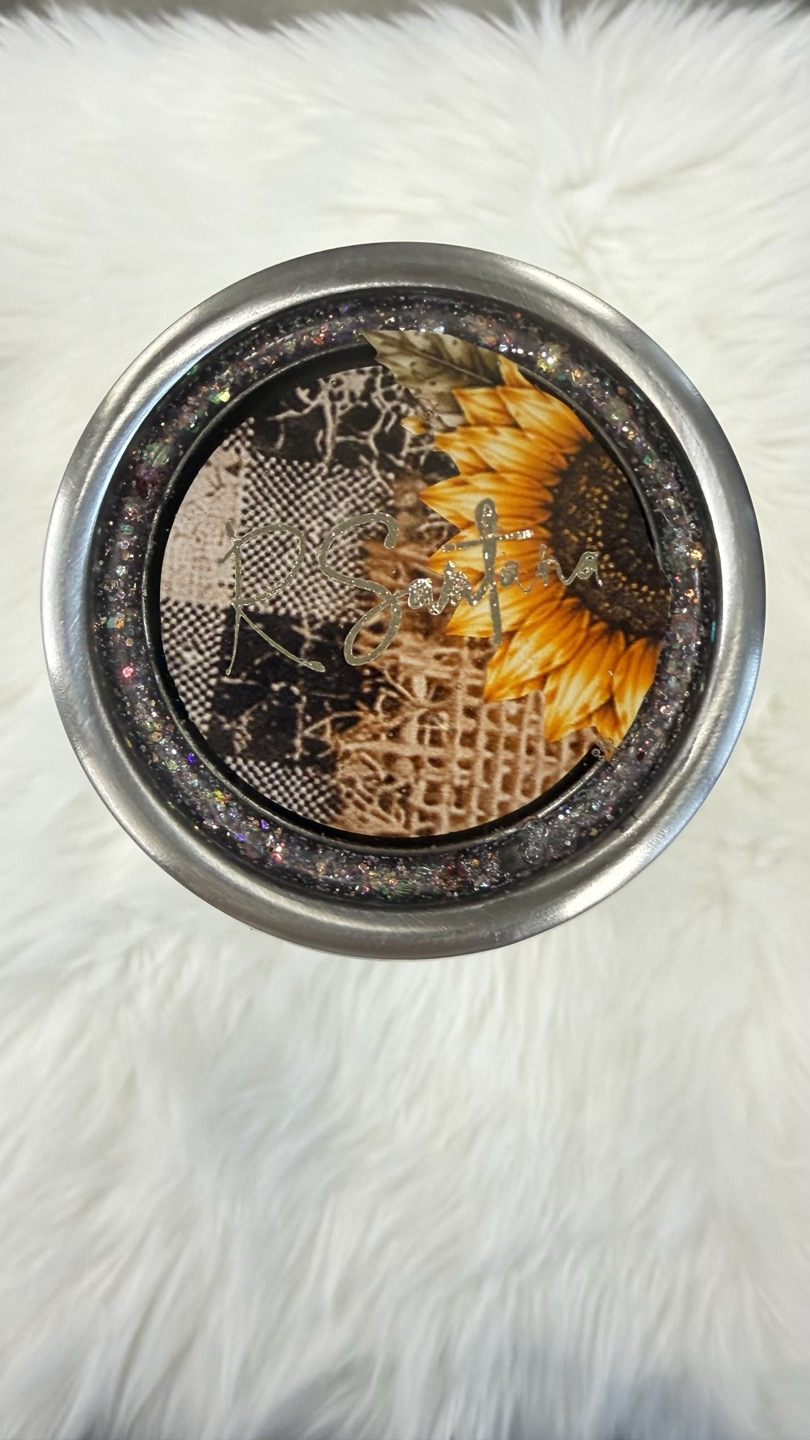
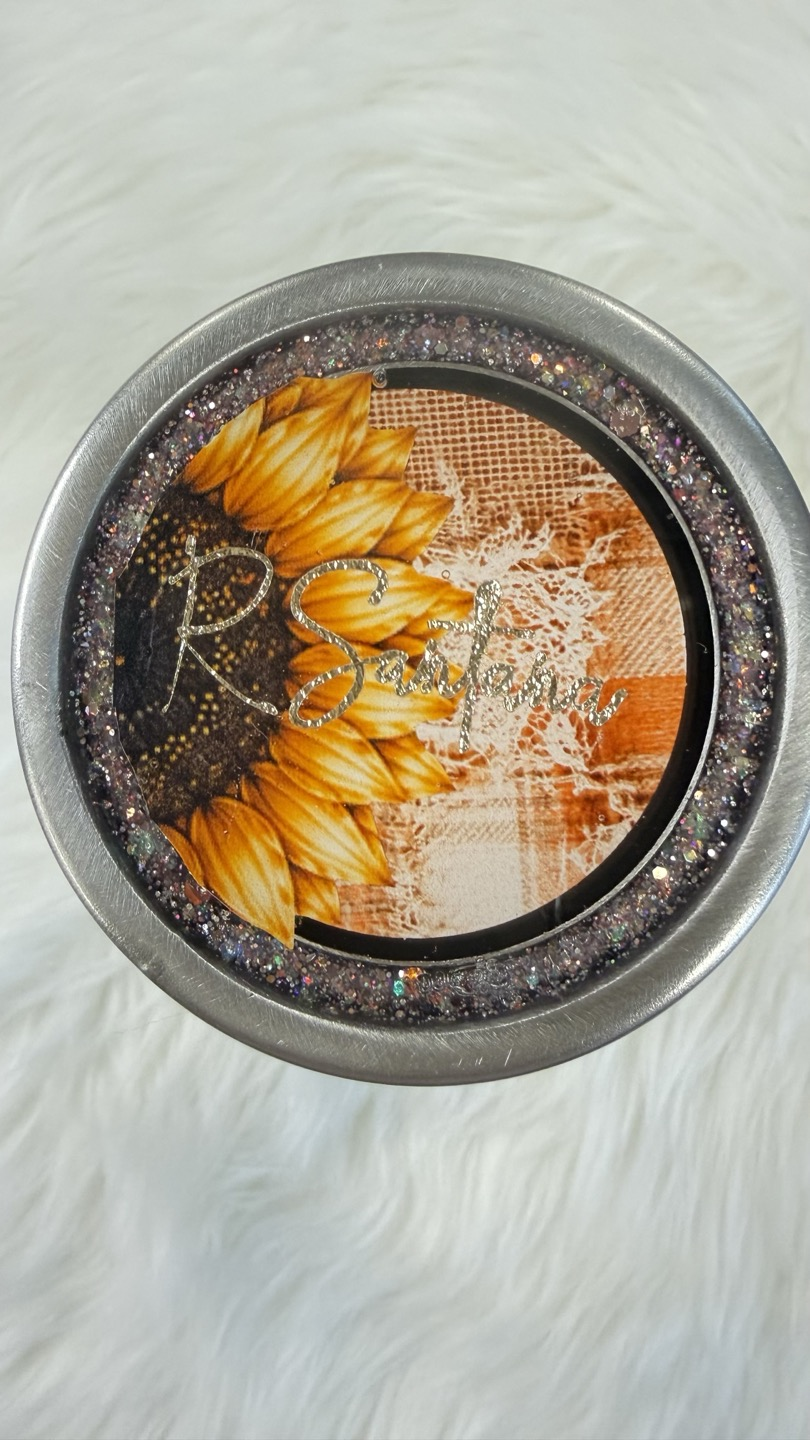
Fix Fall Magic tumbler photos, add Pumpkin Kisses tumbler (16 oz, $40)

diff --git a/categories/tumblers/pumpkin-kisses-and-harvest-wishes-tumbler-16-oz.html b/categories/tumblers/pumpkin-kisses-and-harvest-wishes-tumbler-16-oz.html
@@ -1,0 +1,151 @@
+<!DOCTYPE html>
+<html lang="en">
+<head>
+    <meta charset="UTF-8">
+    <meta name="viewport" content="width=device-width, initial-scale=1.0">
+    <title>Pumpkin Kisses and Harvest Wishes Tumbler (16 oz) | Studio Santana</title>
+    <meta name="description" content="Pumpkin Kisses and Harvest Wishes Tumbler (16 oz) — handmade by Studio Santana.">
+    <link rel="canonical" href="https://studio-santana.com/categories/tumblers/pumpkin-kisses-and-harvest-wishes-tumbler-16-oz.html">
+    <meta property="og:title" content="Pumpkin Kisses and Harvest Wishes Tumbler (16 oz) | Studio Santana">
+    <meta property="og:description" content="Pumpkin Kisses and Harvest Wishes Tumbler (16 oz) — handmade by Studio Santana.">
+    <meta property="og:type" content="website">
+    <meta property="og:url" content="https://studio-santana.com/categories/tumblers/pumpkin-kisses-and-harvest-wishes-tumbler-16-oz.html">
+    <meta property="og:image" content="https://studio-santana.com/assets/Santana_logo.png">
+    <meta property="og:site_name" content="Studio Santana">
+    <meta name="twitter:card" content="summary_large_image">
+    <link rel="icon" href="../../assets/Santana_logo_transparent.png">
+    <link rel="preconnect" href="https://fonts.googleapis.com">
+    <link rel="preconnect" href="https://fonts.gstatic.com" crossorigin>
+    <link href="https://fonts.googleapis.com/css2?family=Dancing+Script:wght@600;700&family=Playfair+Display:wght@600;700&family=Poppins:wght@400;500;600;700&display=swap" rel="stylesheet">
+    <link rel="stylesheet" href="../../assets/css/style.css?v=d37a5ac9">
+</head>
+<body>
+    <header class="site-header">
+        <div class="header-top">
+            <a class="brand" href="../../index.html">
+                <img class="brand-logo" src="../../assets/Santana_logo_transparent.png" alt="Studio Santana logo">
+                <span class="brand-text">
+                    <span class="brand-name">Studio Santana</span>
+                    <span class="brand-tagline">Handmade with Heart</span>
+                </span>
+            </a>
+
+            <form class="search-bar" role="search">
+                <input type="search" placeholder="Search tumblers, quilts, keychains...">
+                <button type="submit" aria-label="Search">
+                    <svg viewBox="0 0 24 24" width="18" height="18" fill="none" stroke="currentColor" stroke-width="2" stroke-linecap="round" stroke-linejoin="round"><circle cx="11" cy="11" r="7"></circle><line x1="21" y1="21" x2="16.65" y2="16.65"></line></svg>
+                </button>
+            </form>
+
+            <div class="header-icons">
+                <a class="icon-btn favorites-link" href="/favorites.html" aria-label="Favorites">
+                    <svg viewBox="0 0 24 24" width="18" height="18" fill="none" stroke="currentColor" stroke-width="2" stroke-linecap="round" stroke-linejoin="round"><path d="M20.8 4.6a5.5 5.5 0 0 0-7.8 0L12 5.6l-1-1a5.5 5.5 0 0 0-7.8 7.8l1 1L12 21l7.8-7.8 1-1a5.5 5.5 0 0 0 0-7.6z"></path></svg>
+                    <span class="badge">0</span>
+                </a>
+                <button class="nav-toggle" aria-label="Menu" aria-expanded="false">
+                    <svg viewBox="0 0 24 24" width="22" height="22" fill="none" stroke="currentColor" stroke-width="2" stroke-linecap="round"><line x1="3" y1="6" x2="21" y2="6"></line><line x1="3" y1="12" x2="21" y2="12"></line><line x1="3" y1="18" x2="21" y2="18"></line></svg>
+                </button>
+            </div>
+        </div>
+
+        <nav class="main-nav">
+            <ul>
+                <li class="dropdown">
+                    <button class="dropdown-toggle" aria-haspopup="true">Shop by Category ▾</button>
+                    <div class="dropdown-menu">
+                        <a href="../../categories/tumblers.html">Tumblers</a>
+                        <a href="../../categories/quilts.html">Quilts</a>
+                        <a href="../../categories/quilted-home.html">Quilted Home</a>
+                        <a href="../../categories/dog-bandannas.html">Dog Bandannas</a>
+                        <a href="../../categories/keychains.html">Keychains</a>
+                        <a href="../../categories/pens.html">Pens</a>
+                        <a href="../../categories/bookish-collection.html">Bookish Collection</a>
+                        <a href="../../categories/studio-sale.html">Studio Sale</a>
+                    </div>
+                </li>
+                <li class="dropdown">
+                    <button class="dropdown-toggle" aria-haspopup="true">Shop by Season ▾</button>
+                    <div class="dropdown-menu">
+                        <a href="../../seasons/spring.html">Spring</a>
+                        <a href="../../seasons/summer.html">Summer</a>
+                        <a href="../../seasons/fall.html">Fall</a>
+                        <a href="../../seasons/winter.html">Winter</a>
+                    </div>
+                </li>
+                <li><a href="../../studio-archive.html">Studio Archive</a></li>
+                <li><a href="mailto:studiosantana@yahoo.com">Contact Us</a></li>
+            </ul>
+        </nav>
+    </header>
+
+    <main>
+        <p class="breadcrumb"><a href="../../index.html">Home</a> / <a href="../../categories/index.html">Categories</a> / <a href="../../categories/tumblers.html">Tumblers</a> / Pumpkin Kisses and Harvest Wishes Tumbler (16 oz)</p>
+
+        <section class="product-detail">
+            <div class="product-detail-image product-gallery">
+                <img class="gallery-main" src="../../assets/images/tumblers/tumbler-pumpkin-kisses-harvest-wishes-16oz-1.jpeg" alt="Pumpkin Kisses and Harvest Wishes Tumbler (16 oz)">
+                <div class="gallery-thumbs">
+                    <button class="gallery-thumb active" type="button" aria-label="View photo 1" data-image="../../assets/images/tumblers/tumbler-pumpkin-kisses-harvest-wishes-16oz-1.jpeg">
+                        <img src="../../assets/images/tumblers/tumbler-pumpkin-kisses-harvest-wishes-16oz-1.jpeg" alt="Pumpkin Kisses and Harvest Wishes Tumbler (16 oz) &mdash; photo 1">
+                    </button>
+                    <button class="gallery-thumb" type="button" aria-label="View photo 2" data-image="../../assets/images/tumblers/tumbler-pumpkin-kisses-harvest-wishes-16oz-2.jpeg">
+                        <img src="../../assets/images/tumblers/tumbler-pumpkin-kisses-harvest-wishes-16oz-2.jpeg" alt="Pumpkin Kisses and Harvest Wishes Tumbler (16 oz) &mdash; photo 2">
+                    </button>
+                    <button class="gallery-thumb" type="button" aria-label="View photo 3" data-image="../../assets/images/tumblers/tumbler-pumpkin-kisses-harvest-wishes-16oz-3.jpeg">
+                        <img src="../../assets/images/tumblers/tumbler-pumpkin-kisses-harvest-wishes-16oz-3.jpeg" alt="Pumpkin Kisses and Harvest Wishes Tumbler (16 oz) &mdash; photo 3">
+                    </button>
+                </div>
+            </div>
+            <div class="product-detail-info">
+                <span class="script">Tumblers</span>
+                <h1>Pumpkin Kisses and Harvest Wishes Tumbler (16 oz)</h1>
+                <p class="product-price">$40.00</p>
+                <p class="product-description">A little cup full of autumn! Features cozy pumpkins, sunflowers, rustic textures, and sweet fall sayings with just the right touch of sparkle. Keeps drinks hot or cold and fits perfectly in standard cup holders.</p>
+                <div class="product-detail-actions">
+                    <a class="btn" href="https://checkout.square.site/merchant/RQ7EZZGXMS1K3/checkout/M3CJCB23ZLJ2BRM4ANDLOZWJ?src=sheet" target="_blank" rel="noopener noreferrer">Buy Now</a>
+                    <button class="favorite-toggle detail-favorite" type="button" aria-label="Save to favorites"
+                        data-id="/categories/tumblers/pumpkin-kisses-and-harvest-wishes-tumbler-16-oz.html" data-name="Pumpkin Kisses and Harvest Wishes Tumbler (16 oz)" data-image="/assets/images/tumblers/tumbler-pumpkin-kisses-harvest-wishes-16oz-1.jpeg" data-category="Tumblers">
+                        <svg viewBox="0 0 24 24" width="16" height="16" fill="none" stroke="currentColor" stroke-width="2" stroke-linecap="round" stroke-linejoin="round"><path d="M20.8 4.6a5.5 5.5 0 0 0-7.8 0L12 5.6l-1-1a5.5 5.5 0 0 0-7.8 7.8l1 1L12 21l7.8-7.8 1-1a5.5 5.5 0 0 0 0-7.6z"></path></svg>
+                        <span>Save</span>
+                    </button>
+                </div>
+                <a class="back-link" href="../../categories/tumblers.html">&larr; Back to Tumblers</a>
+            </div>
+        </section>
+    </main>
+
+    <footer class="site-footer" id="contact">
+        <span class="script">Studio Santana</span>
+        <p id="about">Handmade with heart, created to inspire &mdash; a one-woman craft studio, made with love for
+            life's little moments.</p>
+        <div class="footer-links">
+            <a href="../../categories/index.html">Shop</a>
+            <a href="../../seasons/index.html">Seasons</a>
+            <a href="../../studio-archive.html">Studio Archive</a>
+            <a href="../../our-story.html">Our Story</a>
+            <a href="../../shipping-returns.html">Shipping &amp; Returns</a>
+            <a href="../../privacy-policy.html">Privacy Policy</a>
+            <a href="mailto:studiosantana@yahoo.com">Contact Us</a>
+        </div>
+
+        <div class="social-links">
+            <a class="icon-btn" href="https://www.facebook.com/people/Studio-Santana/100083233152006/" target="_blank" rel="noopener noreferrer" aria-label="Studio Santana on Facebook">
+                <svg viewBox="0 0 24 24" width="18" height="18" fill="currentColor"><path d="M22 12c0-5.523-4.477-10-10-10S2 6.477 2 12c0 4.991 3.657 9.128 8.438 9.878v-6.987h-2.54V12h2.54V9.797c0-2.506 1.492-3.89 3.777-3.89 1.094 0 2.238.195 2.238.195v2.46h-1.26c-1.243 0-1.63.771-1.63 1.562V12h2.773l-.443 2.891h-2.33v6.987C18.343 21.128 22 16.991 22 12z"></path></svg>
+            </a>
+            <a class="icon-btn" href="https://www.instagram.com/studiosantana16/" target="_blank" rel="noopener noreferrer" aria-label="Studio Santana on Instagram">
+                <svg viewBox="0 0 24 24" width="18" height="18" fill="none" stroke="currentColor" stroke-width="2" stroke-linecap="round" stroke-linejoin="round"><rect x="2" y="2" width="20" height="20" rx="5" ry="5"></rect><path d="M16 11.37A4 4 0 1 1 12.63 8 4 4 0 0 1 16 11.37z"></path><line x1="17.5" y1="6.5" x2="17.51" y2="6.5"></line></svg>
+            </a>
+        </div>
+
+        <p class="copyright">&copy; 2026 Studio Santana. All rights reserved.</p>
+        <p class="credit">
+            <a href="https://mustardseeddigitalstudio.com/" target="_blank" rel="noopener noreferrer">
+                <img src="../../assets/mustard_seed_icon.png" alt="" class="credit-icon">
+                Built by Mustard Seed Digital Studio
+            </a>
+        </p>
+    </footer>
+
+    <script src="../../assets/js/main.js?v=91940958"></script>
+</body>
+</html>

diff --git a/categories/tumblers.html b/categories/tumblers.html
@@ -193,6 +193,21 @@
                     <p class="product-price">$65.00</p>
                 </a>
             </article>
+            <article class="product-card">
+                <div class="product-card-media">
+                    <a href="/categories/tumblers/pumpkin-kisses-and-harvest-wishes-tumbler-16-oz.html">
+                        <img src="../assets/images/tumblers/tumbler-pumpkin-kisses-harvest-wishes-16oz-1.jpeg" alt="Pumpkin Kisses and Harvest Wishes Tumbler (16 oz)">
+                    </a>
+                    <button class="favorite-toggle" type="button" aria-label="Save to favorites"
+                        data-id="/categories/tumblers/pumpkin-kisses-and-harvest-wishes-tumbler-16-oz.html" data-name="Pumpkin Kisses and Harvest Wishes Tumbler (16 oz)" data-image="/assets/images/tumblers/tumbler-pumpkin-kisses-harvest-wishes-16oz-1.jpeg" data-category="Tumblers">
+                        <svg viewBox="0 0 24 24" width="16" height="16" fill="none" stroke="currentColor" stroke-width="2" stroke-linecap="round" stroke-linejoin="round"><path d="M20.8 4.6a5.5 5.5 0 0 0-7.8 0L12 5.6l-1-1a5.5 5.5 0 0 0-7.8 7.8l1 1L12 21l7.8-7.8 1-1a5.5 5.5 0 0 0 0-7.6z"></path></svg>
+                    </button>
+                </div>
+                <a href="/categories/tumblers/pumpkin-kisses-and-harvest-wishes-tumbler-16-oz.html" class="product-card-body">
+                    <h3>Pumpkin Kisses and Harvest Wishes Tumbler (16 oz)</h3>
+                    <p class="product-price">$40.00</p>
+                </a>
+            </article>
         </section>
     </main>
 

diff --git a/seasons/fall.html b/seasons/fall.html
@@ -118,6 +118,21 @@
                     <p class="product-price">$65.00</p>
                 </a>
             </article>
+            <article class="product-card">
+                <div class="product-card-media">
+                    <a href="/categories/tumblers/pumpkin-kisses-and-harvest-wishes-tumbler-16-oz.html">
+                        <img src="../assets/images/tumblers/tumbler-pumpkin-kisses-harvest-wishes-16oz-1.jpeg" alt="Pumpkin Kisses and Harvest Wishes Tumbler (16 oz)">
+                    </a>
+                    <button class="favorite-toggle" type="button" aria-label="Save to favorites"
+                        data-id="/categories/tumblers/pumpkin-kisses-and-harvest-wishes-tumbler-16-oz.html" data-name="Pumpkin Kisses and Harvest Wishes Tumbler (16 oz)" data-image="/assets/images/tumblers/tumbler-pumpkin-kisses-harvest-wishes-16oz-1.jpeg" data-category="Tumblers">
+                        <svg viewBox="0 0 24 24" width="16" height="16" fill="none" stroke="currentColor" stroke-width="2" stroke-linecap="round" stroke-linejoin="round"><path d="M20.8 4.6a5.5 5.5 0 0 0-7.8 0L12 5.6l-1-1a5.5 5.5 0 0 0-7.8 7.8l1 1L12 21l7.8-7.8 1-1a5.5 5.5 0 0 0 0-7.6z"></path></svg>
+                    </button>
+                </div>
+                <a href="/categories/tumblers/pumpkin-kisses-and-harvest-wishes-tumbler-16-oz.html" class="product-card-body">
+                    <h3>Pumpkin Kisses and Harvest Wishes Tumbler (16 oz)</h3>
+                    <p class="product-price">$40.00</p>
+                </a>
+            </article>
         </section>
     </main>
 
